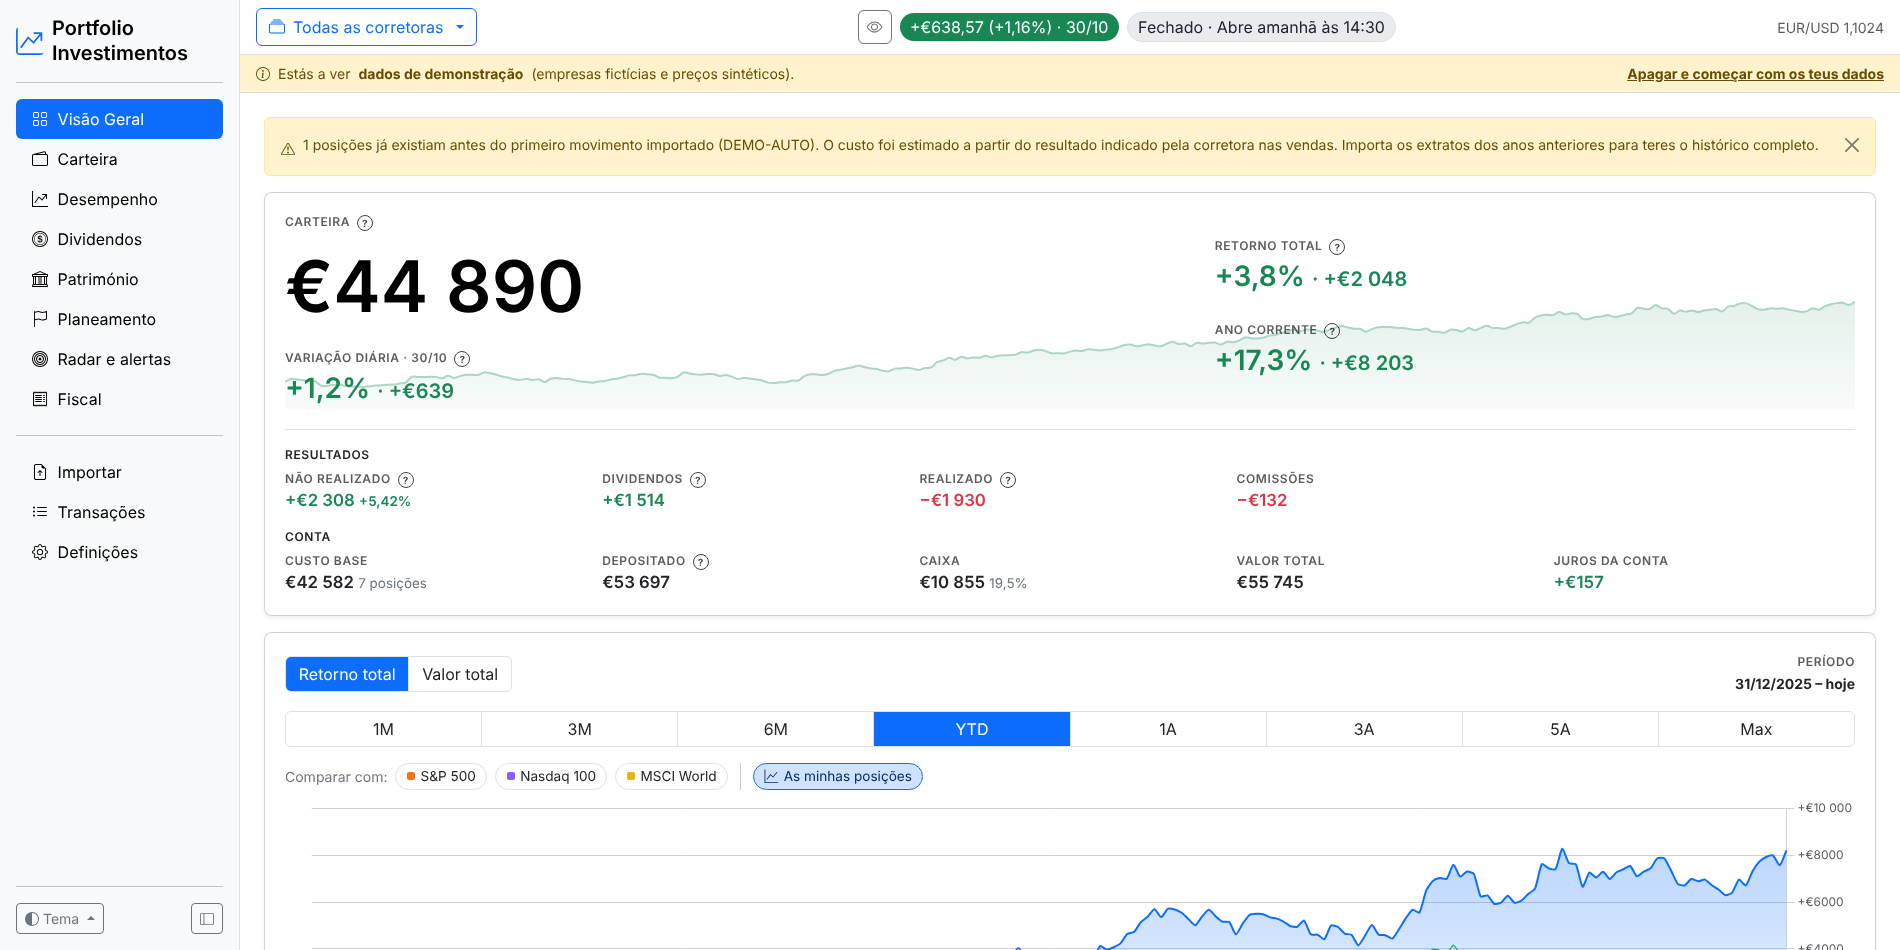
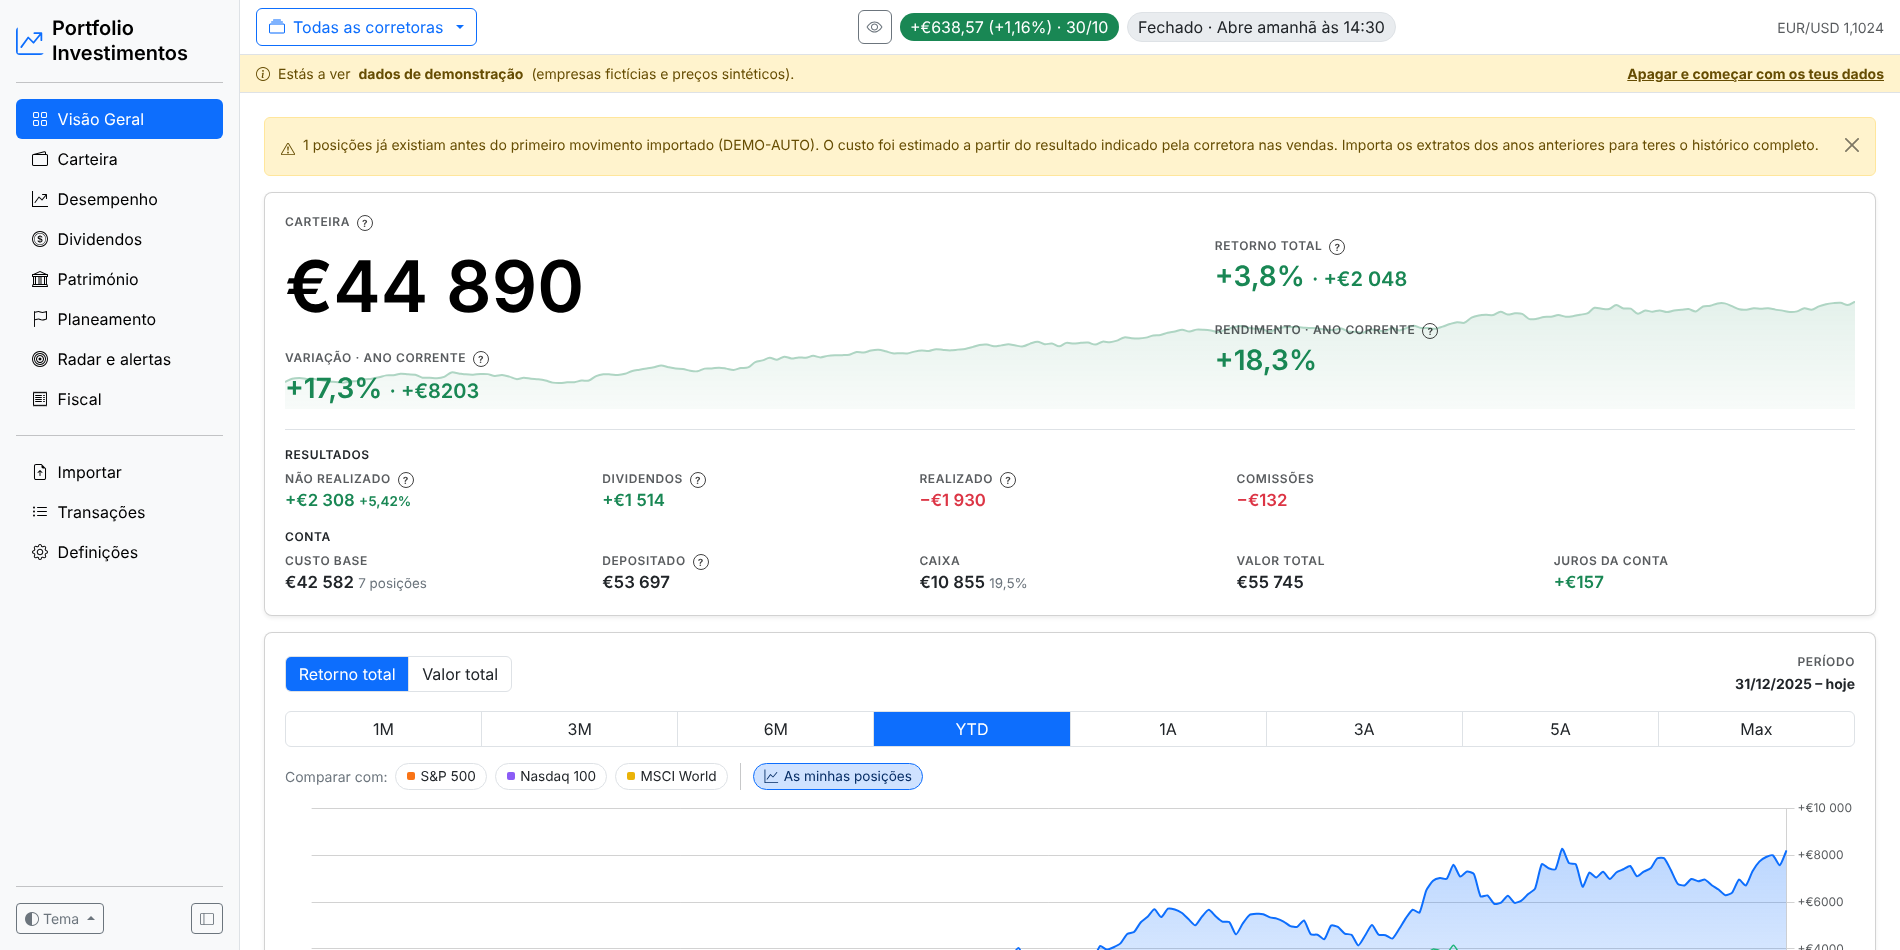
Visão Geral: o período do gráfico de evolução filtra também o cartão Carteira
Os botões de período do gráfico «Retorno total / Valor total» (1M, 3M, 6M,
YTD, 1A, 3A, 5A e Máx) passam a mudar também o primeiro cartão, Carteira.
O filtro continua no gráfico.

No cartão Carteira:
- O gráfico de fundo mostra o valor das posições abertas no período
  escolhido (antes era sempre o último ano).
- «Variação diária» passa a «Variação · período»: o ganho no período sem
  contar depósitos e levantamentos, em euros e em percentagem, com o mesmo
  cálculo do Desempenho.
- «Ano corrente» passa a «Rendimento · período»: o rendimento ponderado pelo
  tempo (TWR) no período.
- O cartão abre em YTD, como o gráfico.
- Não mudam o valor da carteira, o património, o retorno total nem a faixa
  de resultados e conta.

Implementação:
- O perf_payload (views.py), usado pela página e pela ação performance,
  devolve também «holdings» (o valor das posições abertas, com a mesma
  amostragem do gráfico) e «summary» (nome do período, ganho, percentagem
  e TWR).
- No index.html, a função drawHero redesenha o gráfico de fundo e atualiza
  os valores e as cores a cada período.
- Retirados _hero_spark e o ano corrente que deixaram de ser usados.

Testes: a página mostra os novos rótulos, e a ação performance em 3M
devolve o resumo com o mesmo TWR e ganho do motor e um ponto de «holdings»
por data. Capturas 01 e 02 (claro e escuro), README e histórico de
alterações atualizados.

Claude-Session: https://claude.ai/code/session_01AhMv5rzh4esVFWwNf2sje8

diff --git a/portfolio_investimentos/templates/pages/index.html b/portfolio_investimentos/templates/pages/index.html
@@ -22,17 +22,18 @@
       <div class="pm-hero-chart"><canvas id="heroSpark"></canvas></div>
       <div class="row position-relative">
         <div class="col-md-7">
-          <div class="pm-label">Carteira {{ help("Valor de mercado das posições abertas, em euros. O gráfico de fundo é a evolução desse valor no último ano.") }}</div>
+          <div class="pm-label">Carteira {{ help("Valor de mercado das posições abertas, em euros. O gráfico de fundo é a evolução desse valor no período escolhido no gráfico «Retorno total / Valor total».") }}</div>
           <div class="pm-hero-value money my-3">{{ p.holdings_value|money }}</div>
           {% if networth %}<a href="/patrimonio" class="small text-secondary text-decoration-none d-inline-block mt-n2" id="netWorthLink">Património líquido <span class="money">{{ networth.total|money }}</span> · disponível <span class="money">{{ networth.available|money }}</span>{% if networth_late %} <span class="badge text-bg-warning" title="Valores do Património sem atualizar há mais de um mês"><i class="bi bi-calendar-check"></i> {{ networth_late }} por atualizar</span>{% endif %} <i class="bi bi-chevron-right"></i></a>{% endif %}
-          <div class="pm-label mt-4">Variação diária · {{ p.as_of|ddmm }} {{ help("Variação do valor desde o fecho anterior, sem contar depósitos.") }}</div>
-          <div class="pm-big {{ day_change[0]|tone }}">{{ day_change[1]|pct(1) }} <small class="fs-5 money">· {{ day_change[0]|money(sign=True) }}</small></div>
+          {% set h = hero or {"label": "ano corrente", "gain": 0, "gain_pct": 0, "twr": 0} %}
+          <div class="pm-label mt-4"><span id="heroGainLabel">Variação · {{ h.label }}</span> {{ help("Ganho no período escolhido no gráfico, sem contar depósitos e levantamentos. Em %: sobre o máximo de capital investido no período, como em Desempenho.") }}</div>
+          <div class="pm-big {{ h.gain|tone }}" id="heroGain"><span id="heroGainPct">{{ h.gain_pct|pct(1) }}</span> <small class="fs-5">· <span class="money" id="heroGainEur">{{ h.gain|money(sign=True) }}</span></small></div>
         </div>
         <div class="col-md-5 mt-4 mt-md-0">
           <div class="pm-label mt-md-4">Retorno total {{ help("Em euros: valor total (posições + caixa) menos o dinheiro líquido depositado (depósitos − levantamentos). Em %: esse ganho dividido pelo máximo de dinheiro líquido que chegaste a ter investido. O retorno ponderado no tempo (TWR) está em Desempenho.") }}</div>
           <div class="pm-big {{ p.total_return|tone }}">{{ p.total_return_pct|pct(1) }} <small class="fs-5 money">· {{ p.total_return|money(sign=True) }}</small></div>
-          <div class="pm-label mt-4">Ano corrente {{ help("Em euros: variação do valor desde 31 de dezembro, sem contar depósitos e levantamentos. Em %: esse ganho dividido pelo capital investido no ano (valor a 31 de dezembro mais as entradas do ano).") }}</div>
-          <div class="pm-big {{ ytd[1]|tone }}">{{ ytd[1]|pct(1) }} <small class="fs-5 money">· {{ ytd[0]|money(sign=True) }}</small></div>
+          <div class="pm-label mt-4"><span id="heroTwrLabel">Rendimento · {{ h.label }}</span> {{ help("Rendimento ponderado pelo tempo (TWR) no período escolhido no gráfico: mede só as escolhas de investimento, sem depender de quando puseste ou tiraste dinheiro (como em Desempenho).") }}</div>
+          <div class="pm-big {{ h.twr|tone }}" id="heroTwr">{{ h.twr|pct(1) }}</div>
         </div>
       </div>
       </div>
@@ -150,7 +151,6 @@
 <script src="{{ url_for('static', filename='js/movers.js') }}"></script>
 <script>
 (function () {
-  const spark = {{ hero_spark|safe }};
   let perf = {{ perf|safe }};
   let mode = "gain";
   let period = "YTD";
@@ -163,13 +163,28 @@
   const loadPositions = async () => { pos = showPos ? await pm.call("positions", { period }) : null; };
 
   document.addEventListener("DOMContentLoaded", () => {
-    const c = document.getElementById("heroSpark");
-    const accent = pm.css("--pm-up");
-    pm.chart("heroSpark", {
-      type: "line",
-      data: { labels: spark.map((_, i) => i), datasets: [{ data: spark, borderColor: accent, borderWidth: 2, pointRadius: 0, fill: true, backgroundColor: pm.gradient(c.getContext("2d"), accent), tension: .3 }] },
-      options: { maintainAspectRatio: false, plugins: { legend: { display: false }, tooltip: { enabled: false } }, scales: { x: { display: false }, y: { display: false } } },
-    });
+    // widget Carteira: o gráfico de fundo, a variação e o rendimento seguem o período do gráfico
+    const drawHero = () => {
+      if (!perf) return;
+      const spark = perf.holdings || [], h = perf.summary || {};
+      const c = document.getElementById("heroSpark");
+      const accent = pm.css("--pm-up");
+      pm.chart("heroSpark", {
+        type: "line",
+        data: { labels: spark.map((_, i) => i), datasets: [{ data: spark, borderColor: accent, borderWidth: 2, pointRadius: 0, fill: true, backgroundColor: pm.gradient(c.getContext("2d"), accent), tension: .3 }] },
+        options: { maintainAspectRatio: false, animation: false, plugins: { legend: { display: false }, tooltip: { enabled: false } }, scales: { x: { display: false }, y: { display: false } } },
+      });
+      const tone = (el, v) => { el.classList.remove("text-up", "text-down", "text-secondary"); el.classList.add(pm.tone(v)); };
+      document.getElementById("heroGainLabel").textContent = `Variação · ${h.label}`;
+      document.getElementById("heroTwrLabel").textContent = `Rendimento · ${h.label}`;
+      document.getElementById("heroGainPct").textContent = pm.pct(h.gain_pct, 1);
+      document.getElementById("heroGainEur").textContent = pm.money(h.gain, 0, true);
+      tone(document.getElementById("heroGain"), h.gain);
+      const twr = document.getElementById("heroTwr");
+      twr.textContent = pm.pct(h.twr, 1);
+      tone(twr, h.twr);
+    };
+    drawHero();
 
     document.querySelectorAll("#modeSeg button").forEach((b) => b.addEventListener("click", () => {
       document.querySelectorAll("#modeSeg button").forEach((x) => x.classList.toggle("active", x === b));
@@ -179,6 +194,7 @@
       document.querySelectorAll("#periods button").forEach((x) => x.classList.toggle("active", x === b));
       period = b.dataset.p;
       perf = await pm.call("performance", { period });
+      drawHero();
       await loadPositions();
       draw();
     }));

diff --git a/portfolio_investimentos/views.py b/portfolio_investimentos/views.py
@@ -20,6 +20,8 @@ bp = Blueprint("pages", __name__)
 
 PERIODS = [("1M", "1 mês"), ("3M", "3 meses"), ("6M", "6 meses"), ("YTD", "Ano corrente"),
            ("1A", "1 ano"), ("3A", "3 anos"), ("5A", "5 anos"), ("MAX", "Máx")]
+# o período no widget Carteira da Visão Geral («Variação · 3 meses»)
+PERIOD_NAMES = {k: ("desde o início" if k == "MAX" else v.lower()) for k, v in PERIODS}
 LABELS = {"BUY": "Compra", "SELL": "Venda", "DIVIDEND": "Dividendo", "DEPOSIT": "Depósito",
           "WITHDRAWAL": "Levantamento", "FEE": "Comissão", "INTEREST": "Juros",
           "TRANSFER_IN": "Transferência (entrada)", "TRANSFER_OUT": "Transferência (saída)",
@@ -65,8 +67,14 @@ def perf_payload(p, period, benchmarks=None):
 
     def pick(xs, digits):
         return [round(xs[i], digits) for i in keep]
+    holdings = p.series.holdings[len(p.series.holdings) - len(perf["dates"]):]
     return {"start": perf["start"].isoformat(), "dates": [perf["dates"][i] for i in keep],
             "gain": pick(perf["gain"], 2), "value": pick(perf["value"], 2),
+            # o widget Carteira da Visão Geral segue o mesmo período: o gráfico de fundo (posições abertas), a
+            # variação sem depósitos e o rendimento (TWR)
+            "holdings": [float(f"{holdings[i]:.5g}") for i in keep],
+            "summary": {"label": PERIOD_NAMES.get(period, period), "gain": round(perf["return_eur"], 2),
+                        "gain_pct": perf["return_pct"], "twr": perf["twr_total"]},
             "benchmarks": [{"ticker": b["ticker"], "name": b["name"], "color": b["color"], "twr": pick(b["twr"], 5)}
                            for b in perf["benchmarks"]]}
 
@@ -114,13 +122,12 @@ def overview():
     week, two = today + timedelta(days=7), today + timedelta(days=14)
     instruments = {i.ticker: i for i in Instrument.query.filter(Instrument.ticker.in_({e.instrument for e in events} or {""}))}
     c.update(
-        hero_spark=ctx.js_json(_hero_spark(p)), ytd=p.year_to_date(),
         movers=movers, events_total=len(events),
         mover_charts={m.asset.ticker: ctx.js_json(_mover_chart(p, m)) for m in movers},
         event_groups=[("Próxima semana", [e for e in events if e.date <= week]),
                       ("Daqui a duas semanas", [e for e in events if week < e.date <= two]),
                       ("Mais tarde", [e for e in events if e.date > two][:10])],
-        instruments=instruments, fired=check_alerts(p), portfolio_fired=portfolio_alerts.check(), perf=ctx.js_json(perf_payload(p, "YTD")),
+        instruments=instruments, fired=check_alerts(p), portfolio_fired=portfolio_alerts.check(), perf=ctx.js_json(perf_payload(p, "YTD")), hero=(perf_payload(p, "YTD") or {}).get("summary"),
         benchmarks=p.benchmarks, scores=insights.scores(p, c["broker"], c["broker_doc"].broker_name if c["broker_doc"] else None),
         networth=networth.summary(data.load_portfolio(None)) if networth.assets() else None,
         networth_late=len(networth.reminder()),
@@ -141,12 +148,6 @@ def _mover_chart(p, pos, days=365):
     return {"s": start.isoformat(), "o": [(d - start).days for d, _ in rows],
             "v": [float(f"{v:.5g}") for _, v in rows],
             "avg": round(pos.avg_price, 4) if pos.avg_price else None, "cur": pos.asset.currency}
-
-
-def _hero_spark(p):
-    """Valor das posições abertas no último ano (o fundo do cartão Carteira na Visão Geral)."""
-    since = p.as_of - timedelta(days=365)
-    return [float(f"{v:.5g}") for d, v in zip(p.series.dates, p.series.holdings) if d > since]
 
 
 def _market_bars(p):

diff --git a/tests/test_app.py b/tests/test_app.py
@@ -627,7 +627,9 @@ def test_overview_chart_payload_is_slim(app, client):
     token = csrf(client)
     post(client, "load_demo", token)
     full = post(client, "performance", token, period="MAX").get_json()["message"]
-    assert set(full) == {"start", "dates", "gain", "value", "benchmarks"}  # nada do que a página não desenha
+    # nada do que a página não desenha (holdings e summary: o widget Carteira segue o período do gráfico)
+    assert set(full) == {"start", "dates", "gain", "value", "benchmarks", "holdings", "summary"}
+    assert len(full["holdings"]) == len(full["dates"]) and full["summary"]["label"] == "desde o início"
     assert all(set(b) == {"ticker", "name", "color", "twr"} for b in full["benchmarks"])
     assert len(full["dates"]) < 400 and len(full["dates"]) == len(full["value"]) == len(full["gain"])
     assert all(round(v, 2) == v for v in full["value"])
@@ -2422,3 +2424,16 @@ def test_warm_computes_every_broker(app, client):
         ids = [str(b.id) for b in Broker.query.all()]
     keys = {k[0] for k in data._cache if isinstance(k, tuple) and len(k) == 3}
     assert None in keys and set(ids) <= keys
+
+
+def test_overview_carteira_widget_follows_period(app, client):
+    token = csrf(client)
+    assert post(client, "load_demo", token).status_code == 200
+    html = client.get("/").get_data(as_text=True)
+    assert 'id="heroGainLabel">Variação · ano corrente' in html and 'id="heroTwrLabel">Rendimento · ano corrente' in html
+    m3 = post(client, "performance", token, period="3M").get_json()["message"]
+    assert m3["summary"]["label"] == "3 meses" and len(m3["holdings"]) == len(m3["dates"])
+    with app.app_context():
+        perf = data_portfolio().performance("3M")
+    assert abs(m3["summary"]["twr"] - perf["twr_total"]) < 1e-9
+    assert abs(m3["summary"]["gain"] - round(perf["return_eur"], 2)) < 0.01

diff --git a/README.md b/README.md
@@ -185,7 +185,7 @@ O tema escolhe-se no botão **Tema**, no fundo da barra lateral: Claro, Escuro o
 
 | Página | O que mostra |
 | --- | --- |
-| **Visão Geral** | Valor da carteira, variação diária, retorno total e do ano corrente, e no mesmo cartão os resultados (não realizado, dividendos, realizado, comissões) e a conta (custo base, depositado, caixa, valor total, juros). **Perfil de investidor**: Investor Score e Portfolio Score (0-100, últimos 3 anos) com seis perfis (Passive Index, Concentrated Picker, Diversified Active, Income Focus, Growth/Tech, Active Trader), o perfil sugerido pela carteira e a fórmula de cada métrica no «?»; um perfil por corretora e outro para todas as corretoras, com um aviso quando o perfil escolhido não é o que a carteira sugere. Gráfico de evolução (retorno ou valor, 1M a Máx; abre no ano corrente) com comparação com os índices (S&P 500, Nasdaq 100, MSCI World e os escolhidos na Carteira) e **as minhas posições** (as 5 com maior ganho ou perda e as restantes somadas, ligado por omissão), a toda a largura. Principais movers do dia (até 8), com o nome, o preço e um gráfico do último ano que ocupa a largura da linha, verde acima do teu preço médio de aquisição (tracejado) e vermelho abaixo, com a data, o preço e a diferença para o preço médio ao passar o rato. Próximos eventos dos próximos 90 dias (resultados, com o intervalo quando ainda é estimado, ex-dividendo e pagamentos). **Peso vs retorno** (mapa e bolhas) e **alocação** por setor, geografia, classe e corretora. |
+| **Visão Geral** | Valor da carteira e retorno total; a variação (sem depósitos) e o rendimento (TWR) no período escolhido no gráfico de evolução, que também muda o gráfico de fundo do cartão; e no mesmo cartão os resultados (não realizado, dividendos, realizado, comissões) e a conta (custo base, depositado, caixa, valor total, juros). **Perfil de investidor**: Investor Score e Portfolio Score (0-100, últimos 3 anos) com seis perfis (Passive Index, Concentrated Picker, Diversified Active, Income Focus, Growth/Tech, Active Trader), o perfil sugerido pela carteira e a fórmula de cada métrica no «?»; um perfil por corretora e outro para todas as corretoras, com um aviso quando o perfil escolhido não é o que a carteira sugere. Gráfico de evolução (retorno ou valor, 1M a Máx; abre no ano corrente) com comparação com os índices (S&P 500, Nasdaq 100, MSCI World e os escolhidos na Carteira) e **as minhas posições** (as 5 com maior ganho ou perda e as restantes somadas, ligado por omissão), a toda a largura. Principais movers do dia (até 8), com o nome, o preço e um gráfico do último ano que ocupa a largura da linha, verde acima do teu preço médio de aquisição (tracejado) e vermelho abaixo, com a data, o preço e a diferença para o preço médio ao passar o rato. Próximos eventos dos próximos 90 dias (resultados, com o intervalo quando ainda é estimado, ex-dividendo e pagamentos). **Peso vs retorno** (mapa e bolhas) e **alocação** por setor, geografia, classe e corretora. |
 | **Carteira** | Posições abertas/fechadas, carteira vs mercado no dia (até 5 índices à escolha: MSCI World, S&P 500, Dow Jones, Nasdaq 100, Russell 2000, Bitcoin, FTSE 100, CAC 40, DAX, Euro STOXX 50, AEX e Euronext 100) com alertas da variação do dia de toda a carteira ou de uma corretora (1, 2, 3 ou 5%, a subir, a descer ou os dois; no máximo um aviso por dia e por sentido, sem contar depósitos e levantamentos), filtros por setor, pesquisa, tabela ordenável (preço, 1D, preço médio, investido, valor, não realizado, dividendos, efeito cambial, comissões, ROI, peso) e alocação por ativo, setor e moeda. «As crises»: quanto cairia a carteira de hoje se 2008, 2011, 2020 ou 2022 se repetissem (beta de cada posição face ao S&P 500) e quanto tempo levava a recuperar. «Os custos»: comissões, custo dos ETF (TER, indicado por ti) e retenções na fonte acima dos 15% da convenção, por ano e daqui a 20 anos. «O valor de cada ação»: por ordem de popularidade, DCF, Número de Graham, fórmula de crescimento de Graham (com o rendimento das obrigações AAA configurável) e modelo de Gordon, e em «Mais métodos» Owner Earnings (Buffett), Earnings Power Value (Greenwald), Bazin e o PEG de Peter Lynch, sempre em intervalo e com a fórmula e os números no «?», comparados com o preço, e o crescimento que o preço de hoje já assume; dados fundamentais do Yahoo (uma vez por semana, na atualização de cotações; se o pedido principal falhar, a partir das demonstrações financeiras, também da cotação principal pelo ISIN, convertidos para a moeda da cotação), que podes corrigir. «Carteira cerne»: três ETF com pesos alvo (por omissão ERNX 45% · FWIA 30% · XEON 25%); quando o ETF de crescimento cai face ao máximo, a mistura alvo passa ao escalão seguinte (40/35/25, 35/40/25, 30/50/20, 25/60/15, 20/70/10), a cada 10% de queda (configurável em Definições), e mantém-se quando ele recupera até voltares à base; com os pesos atuais, o desvio, as ordens em € e unidades (ou só a distribuição do dinheiro novo, sem vender), o retorno esperado, a volatilidade e o pior ano típico de cada escalão, e uma faixa no topo quando se chega a um escalão novo. |
 | **Desempenho** | Retorno total e IRR, TWR e CAGR vs índice, melhor/pior ano e mês, sequência atual; TWR anual e acumulado; drawdown; mapa de retornos mensais; mérito vs mercado (captura em alta/baixa, beta, % de meses acima do mercado); risco (Sharpe, Sortino, Calmar, volatilidade, max drawdown); alfa de Jensen e distribuição mensal ordenada. |
 | **Dividendos** | Recebido líquido/bruto e retenção na fonte, maior pagador, meses com dividendos, rendimento anualizado, crescimento anual. **Projeção** do ano e dos próximos 12 meses com os dividendos recebidos e, para posições recentes, os dividendos por ação do Yahoo, com a origem de cada valor. Dividendos por ano, decomposição do crescimento, **mapa mensal com a linha do próximo ano**, **datas ex-dividendo** (recebido, a receber, sem direito por ter comprado depois, previsto), yield on cost e histórico. |

diff --git a/CHANGELOG.md b/CHANGELOG.md
@@ -2,6 +2,11 @@
 
 O que mudou em cada commit, do mais recente para o mais antigo (gerado a partir das mensagens dos commits). Os números entre parênteses são as issues do GitHub resolvidas.
 
+## 2026-11-08
+
+- **Visão Geral: o período do gráfico de evolução filtra também o cartão Carteira**  
+  Os botões 1M, 3M, 6M, YTD, 1A, 3A, 5A e Máx do gráfico «Retorno total / Valor total» passam a mudar também o primeiro cartão: o gráfico de fundo mostra o valor das posições abertas nesse período, «Variação diária» passa a «Variação · período» (ganho sem depósitos, em € e %, como em Desempenho) e «Ano corrente» passa a «Rendimento · período» (TWR). Abre em YTD. O valor da carteira, o retorno total e os resultados e a conta não mudam.
+
 ## 2026-11-07
 
 - **Património: na evolução mensal, por omissão só o disponível, a liquidez imediata e o curto prazo**  
